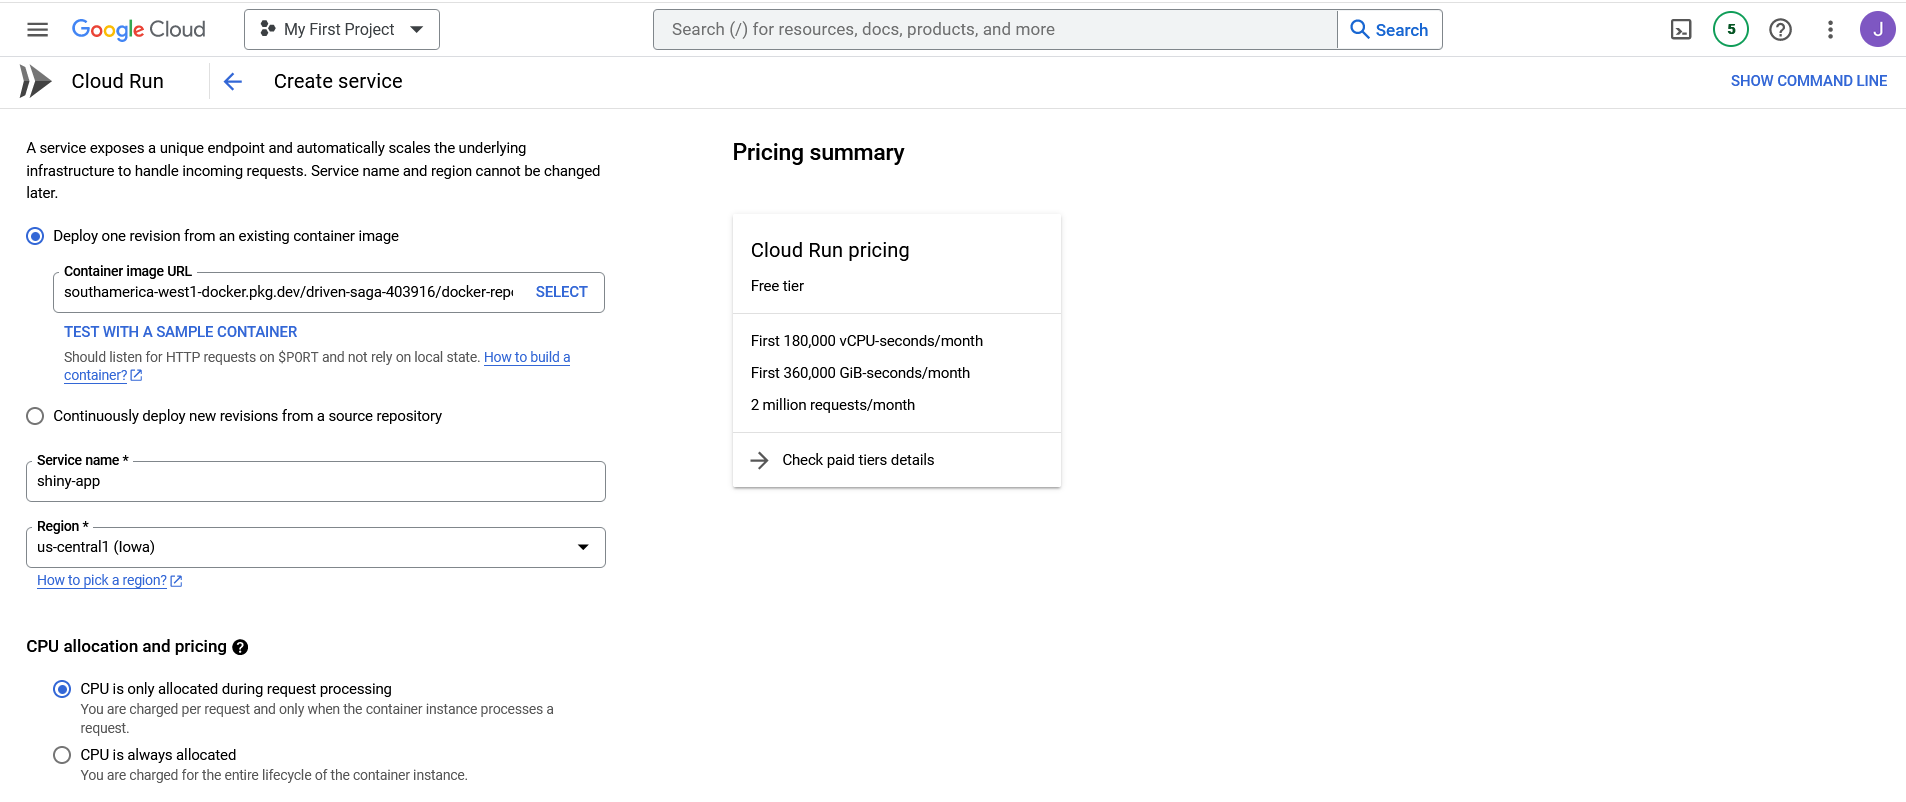
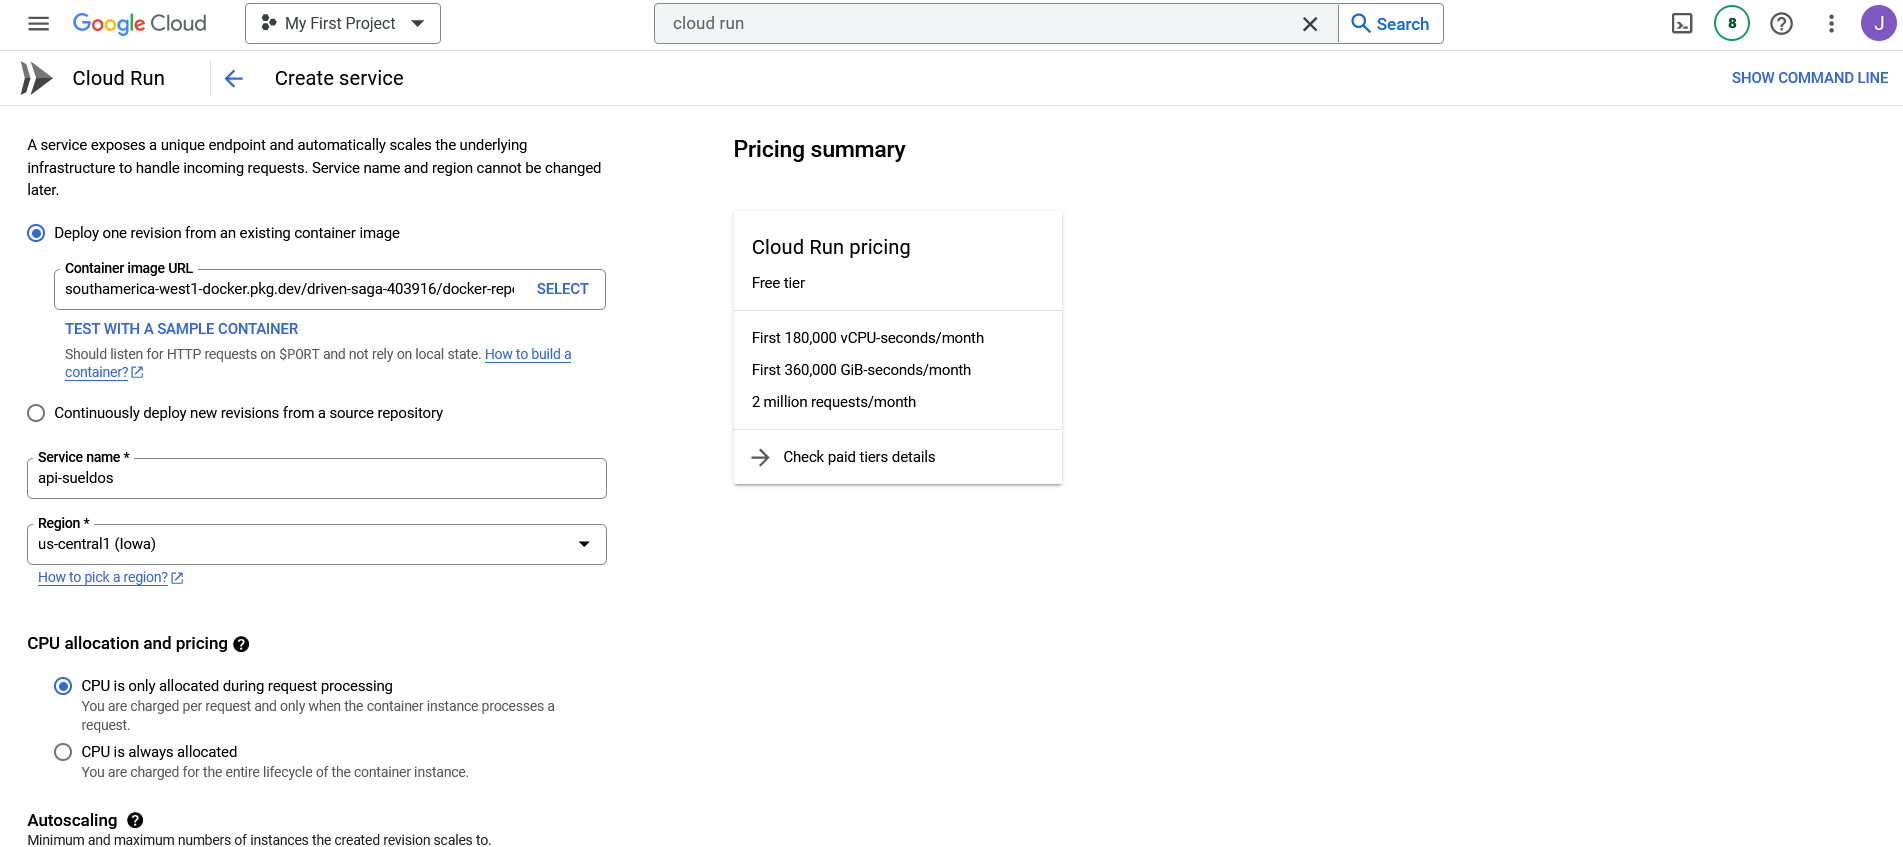
Se editan detalles del readme y las imagenes

diff --git a/README.md b/README.md
@@ -104,14 +104,14 @@ docker tag api_sueldos:latest southamerica-west1-docker.pkg.dev/driven-saga-4039
 Una vez etiquetada la imagen,le podemos dar a push a la imagen con la siguiente linea
 
 ``` dockerfile
-docker tag api_sueldos:latest southamerica-west1-docker.pkg.dev/driven-saga-403916/docker-repo/api_sueldos:latest
+docker push southamerica-west1-docker.pkg.dev/driven-saga-403916/docker-repo/api_sueldos:latest
 ```
 
 Si la imagen fue cargada correctamente la podremos ver en el repositorio de Artifact Registry como se ve en la imagen.
 
 ![imagen en el repo docker](image_repo_docker.png)
 
-Como podemos ver en la imagen,ya tenemos la imagen de nuestra API.De esta forma ahora la podemos desplegar con el servicio Cloud Run.
+Como podemos ver en la imagen,tenemos 3 imagenes.En este caso la que utilizaremos es la imagen **api_sueldos**,las otras 2 corresponden a otras apps que subi anteriormente.
 
 ## Desplegar con Cloud Run
 
@@ -135,15 +135,14 @@ Finalmente si queremos acceder al servicio,podemos entrar al URL que se nos mues
 
 Se los dejo a continuación.
 
-<https://shiny-app-vvrixyvk3q-uc.a.run.app>
+<https://api-sueldos-vvrixyvk3q-uc.a.run.app/docs>
 
 Aca se una vista de la API Sueldos.
 
-![Shiny app desplegada](cloud_run_3.png)
+![API sueldos desplegada](cloud_run_3.png)
 
 
-## API Sueldos
+Esta es una api que permite determinar los sueldos en tecnologia mediante 2 endpoints y de acuerdo a 3 variables de entrada.La primera variable es **Años**,que corresponde a la edad de la persona,la segunda variable es **Años de experiencia** que corresponde a los años de experiencia laboral y finalmente la variable **Cargo**,que en este momento solo tiene la opcion de 3 tipos de cargos:Data Engineer,Arquitecto de datos y Full- Stack.
 
-Esta es una api que permite determinar los sueldos en tecnologia de acuerdo a 3 variables de entrada.La primera variable es **Años**,que corresponde a la edad de la persona,la segunda variable es **Años de experiencia** que corresponde a los años de experiencia laboral y finalmente la variable **Cargo**,que en este momento solo tiene la opcion de 3 tipos de cargos:Data Engineer,Arquitecto de datos y Full- Stack.
+Si bien las estimaciones que realiza cada modelo son distintas,esto se debe a la arquitectura de cada modelo,pero ademas junto al sueldo estimado se muestra el score de entrenamiento de cada modelo.
 
-![API sueldos](api_1.png)
